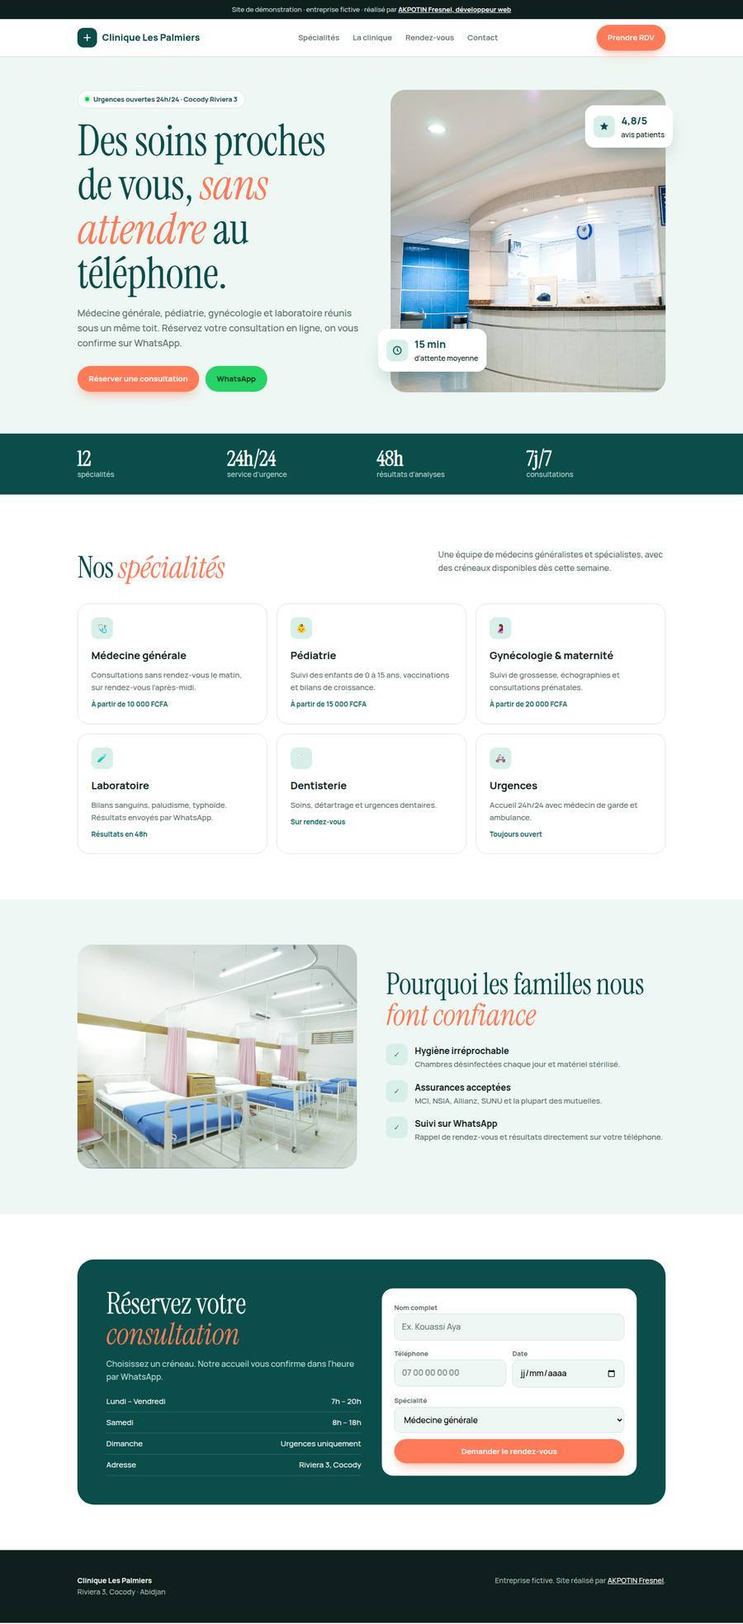
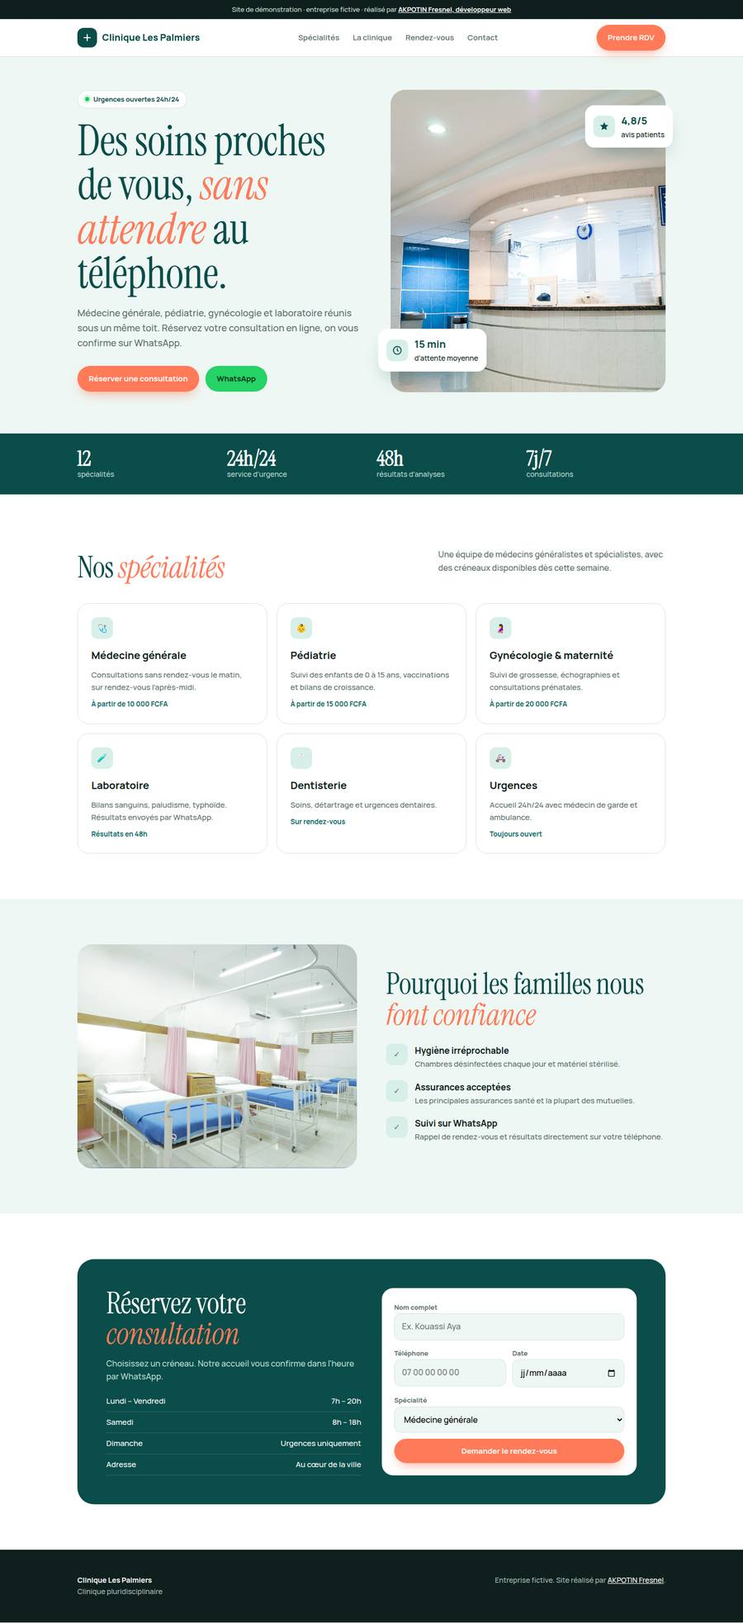
Couleur principale bleu électrique, retrait des mentions de pays et villes

diff --git a/index.html b/index.html
@@ -3,17 +3,17 @@
 <head>
 <meta charset="utf-8">
 <meta name="viewport" content="width=device-width,initial-scale=1,viewport-fit=cover">
-<title>AKPOTIN Fresnel · Développeur web à Abidjan &amp; Cotonou</title>
-<meta name="description" content="AKPOTIN Fresnel, développeur web : sites rapides sur mobile pour salons, cliniques, écoles, hôtels et agences d'Abidjan et de Cotonou.">
+<title>AKPOTIN Fresnel · Développeur web</title>
+<meta name="description" content="AKPOTIN Fresnel, développeur web : sites rapides sur mobile pour salons, cliniques, écoles, hôtels et agences.">
 <meta property="og:title" content="AKPOTIN Fresnel · Développeur web">
-<meta property="og:description" content="Des sites qui font venir les clients. Abidjan & Cotonou.">
+<meta property="og:description" content="Des sites qui font venir les clients.">
 <meta property="og:image" content="img/dreads.jpg">
 <link rel="preconnect" href="https://fonts.googleapis.com">
 <link rel="stylesheet" href="https://fonts.googleapis.com/css2?family=Bricolage+Grotesque:opsz,wght@12..96,500;12..96,700;12..96,800&family=DM+Sans:opsz,wght@9..40,500;9..40,700&display=swap">
 <style>
-/* Néo-brutalisme : jaune #ffe17c, charbon #171e19, sauge #b7c6c2, bordures 2px, ombres dures sans flou */
+/* Néo-brutalisme : bleu électrique #7b9cff, charbon #171e19, sauge #b7c6c2, bordures 2px, ombres dures sans flou */
 :root{
-  --yellow:#ffe17c; --charcoal:#171e19; --sage:#b7c6c2; --black:#000; --white:#fff; --dark2:#272727; --soft:#f4f4f5; --muted:#3f4742;
+  --main:#7b9cff; --charcoal:#171e19; --sage:#b7c6c2; --black:#000; --white:#fff; --dark2:#272727; --soft:#f4f4f5; --muted:#3f4742;
   --f-display:"Bricolage Grotesque","Arial Black",system-ui,sans-serif;
   --f-body:"DM Sans",system-ui,-apple-system,sans-serif;
   --ease:cubic-bezier(.175,.885,.32,1.275);
@@ -26,7 +26,7 @@ p{margin:0} a{color:inherit} img{max-width:100%;display:block}
 .in{max-width:1240px;margin:0 auto;padding-inline:16px}
 @media (min-width:700px){.in{padding-inline:32px}}
 section{padding-block:clamp(64px,9vw,120px)}
-.dots{background-color:var(--yellow);background-image:radial-gradient(circle,rgb(0 0 0 / .1) 1.6px,transparent 1.8px);background-size:32px 32px}
+.dots{background-color:var(--main);background-image:radial-gradient(circle,rgb(0 0 0 / .1) 1.6px,transparent 1.8px);background-size:32px 32px}
 .h2{font-size:clamp(40px,6.4vw,84px)}
 .lead{font-size:clamp(17px,1.6vw,20px);max-width:58ch}
 .pill{display:inline-flex;align-items:center;gap:8px;background:var(--white);border:2px solid var(--black);border-radius:999px;padding:6px 14px;font:700 13px var(--f-body);text-transform:uppercase;letter-spacing:.07em;box-shadow:4px 4px 0 var(--black)}
@@ -38,15 +38,15 @@ section{padding-block:clamp(64px,9vw,120px)}
 .btn{display:inline-flex;align-items:center;gap:10px;font:700 16px var(--f-body);text-decoration:none;padding:15px 28px;border:2px solid var(--black);border-radius:12px;cursor:pointer;transition:transform .2s var(--ease),box-shadow .2s var(--ease)}
 .btn-dark{background:var(--black);color:var(--white);box-shadow:8px 8px 0 var(--black)}
 .btn-dark:hover{transform:translate(4px,4px);box-shadow:4px 4px 0 var(--black)}
-.on-dark .btn-dark{border-color:var(--yellow);box-shadow:8px 8px 0 var(--yellow)}
-.on-dark .btn-dark:hover{box-shadow:4px 4px 0 var(--yellow)}
+.on-dark .btn-dark{border-color:var(--main);box-shadow:8px 8px 0 var(--main)}
+.on-dark .btn-dark:hover{box-shadow:4px 4px 0 var(--main)}
 .btn-light{background:var(--white);color:var(--black);box-shadow:4px 4px 0 var(--black)}
 .btn-light:hover{transform:translate(4px,4px);box-shadow:0 0 0 var(--black)}
 .btn-sm{padding:10px 18px;font-size:15px;box-shadow:4px 4px 0 var(--black)}
 .btn-sm:hover{transform:translate(4px,4px);box-shadow:0 0 0 var(--black)}
 
 /* nav */
-header.nav{position:fixed;top:0;left:0;right:0;z-index:50;background:var(--yellow);border-bottom:2px solid var(--black);padding-top:env(safe-area-inset-top,0px)}
+header.nav{position:fixed;top:0;left:0;right:0;z-index:50;background:var(--main);border-bottom:2px solid var(--black);padding-top:env(safe-area-inset-top,0px)}
 .nav .in{height:80px;display:flex;align-items:center;justify-content:space-between;gap:16px}
 .logo{display:flex;align-items:center;gap:10px;text-decoration:none;font:800 20px var(--f-display);letter-spacing:-.03em;white-space:nowrap}
 .logo i{width:40px;height:40px;background:var(--black);border-radius:8px;display:grid;place-items:center;flex:none;transition:transform .4s var(--ease)}
@@ -71,6 +71,7 @@ header.nav{position:fixed;top:0;left:0;right:0;z-index:50;background:var(--yello
 .swap{display:inline-grid;vertical-align:bottom}
 .swap b{grid-area:1/1;color:transparent;-webkit-text-stroke:2.5px var(--black);font-weight:800;transition:transform .55s var(--ease),opacity .4s}
 .swap b:not(.cur){transform:translateY(80%) rotate(6deg);opacity:0}
+.swap b:not(.cur):not(.out){visibility:hidden}
 .swap b.out{transform:translateY(-80%) rotate(-6deg);opacity:0}
 .hero .lead{margin-top:26px}
 .ctas{display:flex;flex-wrap:wrap;gap:18px;margin-top:36px}
@@ -94,7 +95,7 @@ header.nav{position:fixed;top:0;left:0;right:0;z-index:50;background:var(--yello
 @keyframes deal{from{opacity:0;translate:0 60px}}
 .sticker{position:absolute;left:-6%;top:-8%;width:132px;height:132px;z-index:5;display:grid;place-items:center}
 .sticker svg{position:absolute;inset:0;animation:spin 14s linear infinite}
-.sticker i{position:relative;z-index:1;width:62px;height:62px;border-radius:50%;background:var(--black);display:grid;place-items:center;font:800 24px var(--f-display);color:var(--yellow);font-style:normal;border:2px solid var(--black)}
+.sticker i{position:relative;z-index:1;width:62px;height:62px;border-radius:50%;background:var(--black);display:grid;place-items:center;font:800 24px var(--f-display);color:var(--main);font-style:normal;border:2px solid var(--black)}
 @keyframes spin{to{transform:rotate(360deg)}}
 @media (max-width:600px){.sticker{width:96px;height:96px;left:-2%;top:-10%}.sticker i{width:46px;height:46px;font-size:18px}}
 
@@ -102,7 +103,7 @@ header.nav{position:fixed;top:0;left:0;right:0;z-index:50;background:var(--yello
 .marquee{background:var(--charcoal);border-bottom:2px solid var(--black);overflow:hidden;padding-block:24px}
 .track{display:flex;width:max-content;animation:slide 40s linear infinite}
 .track span{font:800 clamp(24px,3.2vw,38px) var(--f-display);letter-spacing:-.02em;color:var(--sage);opacity:.5;padding-inline:26px;white-space:nowrap}
-.track span::after{content:"✦";margin-left:52px;font-size:.6em;vertical-align:middle;color:var(--yellow)}
+.track span::after{content:"✦";margin-left:52px;font-size:.6em;vertical-align:middle;color:var(--main)}
 @keyframes slide{to{transform:translateX(-50%)}}
 
 /* chiffres */
@@ -132,11 +133,11 @@ header.nav{position:fixed;top:0;left:0;right:0;z-index:50;background:var(--yello
 .mob{position:absolute;right:0;bottom:0;width:24%;min-width:92px;border:2px solid var(--black);border-radius:20px;background:var(--black);padding:5px;box-shadow:6px 6px 0 var(--black);transform:rotate(4deg);transition:transform .4s var(--ease)}
 .proj:hover .mob{transform:rotate(0) translateY(-8px)}
 .mob img{border-radius:15px;aspect-ratio:390/844;object-fit:cover;object-position:top;width:100%}
-.hint{position:absolute;left:14px;bottom:calc(8% + 14px);background:var(--yellow);border:2px solid var(--black);border-radius:8px;padding:4px 10px;font:700 12px var(--f-body);box-shadow:3px 3px 0 var(--black);transition:opacity .3s}
+.hint{position:absolute;left:14px;bottom:calc(8% + 14px);background:var(--main);border:2px solid var(--black);border-radius:8px;padding:4px 10px;font:700 12px var(--f-body);box-shadow:3px 3px 0 var(--black);transition:opacity .3s}
 .proj:hover .hint{opacity:0}
 .info{display:grid;gap:16px;align-content:start}
 .kind{justify-self:start;font:700 13px var(--f-body);text-transform:uppercase;letter-spacing:.07em;border:2px solid var(--black);border-radius:999px;padding:4px 12px}
-.k-client{background:var(--yellow)} .k-prod{background:var(--sage)} .k-demo{background:var(--white)}
+.k-client{background:var(--main)} .k-prod{background:var(--sage)} .k-demo{background:var(--white)}
 .info h3{font-size:clamp(34px,4vw,52px)}
 .info p{font-size:17px;color:var(--muted);max-width:46ch}
 .feats{display:flex;flex-wrap:wrap;gap:8px}
@@ -151,7 +152,7 @@ header.nav{position:fixed;top:0;left:0;right:0;z-index:50;background:var(--yello
 .pcard{border-radius:24px;padding:clamp(24px,3vw,40px);display:grid;gap:22px;align-content:start}
 .pcard h3{font-size:clamp(28px,3vw,38px)}
 .pcard.bad{background:var(--soft);border:2px dashed #8a918d;opacity:.75}
-.pcard.good{background:var(--yellow);border:2px solid var(--black);box-shadow:8px 8px 0 var(--black)}
+.pcard.good{background:var(--main);border:2px solid var(--black);box-shadow:8px 8px 0 var(--black)}
 .ticks{list-style:none;margin:0;padding:0;display:grid;gap:14px;font-weight:700;font-size:17px}
 .ticks li{display:grid;grid-template-columns:28px minmax(0,1fr);gap:12px}
 
@@ -164,7 +165,7 @@ header.nav{position:fixed;top:0;left:0;right:0;z-index:50;background:var(--yello
 .step{position:relative;display:grid;gap:14px;justify-items:start}
 .circle{width:96px;height:96px;border-radius:50%;background:var(--charcoal);display:grid;place-items:center;font:800 36px var(--f-display)}
 .c1{border:4px solid var(--sage);color:var(--sage);box-shadow:0 0 0 6px rgb(183 198 194 / .15)}
-.c2{border:4px solid var(--yellow);color:var(--yellow);box-shadow:0 0 0 6px rgb(255 225 124 / .15)}
+.c2{border:4px solid var(--main);color:var(--main);box-shadow:0 0 0 6px rgb(123 156 255 / .2)}
 .c3{border:4px solid var(--white);color:var(--white);box-shadow:0 0 0 6px rgb(255 255 255 / .12)}
 .step h3{font-size:28px}
 .step p{color:#c5cfcb;max-width:34ch}
@@ -177,7 +178,7 @@ header.nav{position:fixed;top:0;left:0;right:0;z-index:50;background:var(--yello
 .bcard .tagw{justify-self:start;background:var(--white);color:var(--black);border:2px solid var(--black);border-radius:999px;font:700 13px var(--f-body);padding:4px 12px}
 .bcard h3{font-size:30px}
 .bcard ul{margin:0;padding-left:18px;display:grid;gap:6px}
-.b1{background:var(--sage)} .b2{background:var(--yellow);box-shadow:8px 8px 0 var(--black)} .b3{background:var(--dark2);color:var(--white)}
+.b1{background:var(--sage)} .b2{background:var(--main);box-shadow:8px 8px 0 var(--black)} .b3{background:var(--dark2);color:var(--white)}
 
 /* inclus */
 .promise{background:var(--sage);border-block:2px solid var(--black)}
@@ -198,7 +199,7 @@ header.nav{position:fixed;top:0;left:0;right:0;z-index:50;background:var(--yello
 .cbox div{min-width:0}
 .cbox small{display:block;font:700 12px var(--f-body);text-transform:uppercase;letter-spacing:.07em;color:#4a524d}
 .cbox strong{display:block;font-size:17px;overflow-wrap:anywhere}
-.copy{font:700 13px var(--f-body);background:var(--yellow);border:2px solid var(--black);border-radius:8px;padding:6px 12px;cursor:pointer;flex:none}
+.copy{font:700 13px var(--f-body);background:var(--main);border:2px solid var(--black);border-radius:8px;padding:6px 12px;cursor:pointer;flex:none}
 .copy:hover{background:var(--sage)}
 
 footer{background:var(--charcoal);color:#c5cfcb;padding-block:56px 32px}
@@ -207,10 +208,10 @@ footer{background:var(--charcoal);color:#c5cfcb;padding-block:56px 32px}
 @media (max-width:480px){.fgrid{grid-template-columns:minmax(0,1fr)}}
 footer h4{font:800 16px var(--f-display);color:var(--white);margin:0 0 12px}
 footer ul{list-style:none;margin:0;padding:0;display:grid;gap:8px;font-size:15px}
-footer a{text-decoration:none} footer a:hover{color:var(--yellow)}
+footer a{text-decoration:none} footer a:hover{color:var(--main)}
 .social{display:flex;gap:10px;margin-top:16px}
 .social a{width:40px;height:40px;display:grid;place-items:center;background:var(--dark2);border:2px solid #5d6560;border-radius:8px;color:#d9dfdc;transition:background .2s,color .2s,border-color .2s}
-.social a:hover{background:var(--yellow);color:var(--black);border-color:var(--black)}
+.social a:hover{background:var(--main);color:var(--black);border-color:var(--black)}
 .legal{margin-top:44px;padding-top:20px;border-top:2px solid var(--dark2);display:flex;flex-wrap:wrap;justify-content:space-between;gap:10px;font-size:14px}
 
 .wa-fab{position:fixed;right:18px;bottom:calc(18px + env(safe-area-inset-bottom,0px));z-index:40;width:60px;height:60px;border-radius:16px;background:#25d366;border:2px solid var(--black);box-shadow:4px 4px 0 var(--black);display:grid;place-items:center;transition:transform .2s var(--ease),box-shadow .2s var(--ease)}
@@ -228,7 +229,7 @@ footer a{text-decoration:none} footer a:hover{color:var(--yellow)}
 <header class="nav">
   <div class="in">
     <a class="logo" href="#top" aria-label="AKPOTIN Fresnel, accueil">
-      <i><svg width="20" height="20" viewBox="0 0 24 24" fill="#ffe17c" aria-hidden="true"><path d="M13.5 2 4 13.5h6.5L9 22l11-12.5h-6.8z"/></svg></i>
+      <i><svg width="20" height="20" viewBox="0 0 24 24" fill="#7b9cff" aria-hidden="true"><path d="M13.5 2 4 13.5h6.5L9 22l11-12.5h-6.8z"/></svg></i>
       <span>AKPOTIN Fresnel</span>
     </a>
     <nav class="links" aria-label="Sections">
@@ -246,7 +247,7 @@ footer a{text-decoration:none} footer a:hover{color:var(--yellow)}
   <section class="hero dots">
     <div class="in">
       <div>
-        <span class="pill"><span class="live"></span>Disponible · Abidjan &amp; Cotonou</span>
+        <span class="pill"><span class="live"></span>Disponible pour vos projets</span>
         <h1>
           <span class="ln"><span>Des sites qui</span></span>
           <span class="ln"><span>font <span class="swap" id="swap"><b class="cur">appeler</b><b>réserver</b><b>acheter</b><b>revenir</b></span></span></span>
@@ -262,7 +263,7 @@ footer a{text-decoration:none} footer a:hover{color:var(--yellow)}
 
       <div class="fan" id="fan" aria-label="Aperçu de sites réalisés">
         <div class="sticker" aria-hidden="true">
-          <svg viewBox="0 0 132 132"><defs><path id="circ" d="M66,66 m-52,0 a52,52 0 1,1 104,0 a52,52 0 1,1 -104,0"/></defs><circle cx="66" cy="66" r="64" fill="#fff" stroke="#000" stroke-width="2"/><text font-family="DM Sans, sans-serif" font-weight="700" font-size="12.5" letter-spacing="2.6"><textPath href="#circ">SITES WEB · ABIDJAN · COTONOU · </textPath></text></svg>
+          <svg viewBox="0 0 132 132"><defs><path id="circ" d="M66,66 m-52,0 a52,52 0 1,1 104,0 a52,52 0 1,1 -104,0"/></defs><circle cx="66" cy="66" r="64" fill="#fff" stroke="#000" stroke-width="2"/><text font-family="DM Sans, sans-serif" font-weight="700" font-size="12.5" letter-spacing="2.6"><textPath href="#circ">SITES WEB · SUR MESURE · RAPIDES · </textPath></text></svg>
           <i>AF</i>
         </div>
         <div class="card c1"><div class="bar"><b style="background:#ff5f57"></b><b style="background:#febc2e"></b><b style="background:#28c840"></b></div><img src="img/hotel.jpg" alt="Site de l'hôtel Lagune Bleue"></div>
@@ -284,7 +285,7 @@ footer a{text-decoration:none} footer a:hover{color:var(--yellow)}
     <div><strong data-count="4">4</strong><span>sites en ligne</span></div>
     <div><strong>100%</strong><span>adaptés au mobile</span></div>
     <div><strong>1 clic</strong><span>pour vous écrire</span></div>
-    <div><strong>2</strong><span>pays : CI &amp; Bénin</span></div>
+    <div><strong>24h</strong><span>pour une première réponse</span></div>
   </div>
 
   <section class="work" id="realisations">
@@ -303,7 +304,7 @@ footer a{text-decoration:none} footer a:hover{color:var(--yellow)}
           </a>
           <div class="info">
             <span class="num">01</span>
-            <span class="kind k-client">Client · Cotonou</span>
+            <span class="kind k-client">Client · Salon de coiffure</span>
             <h3>Dreads ET Crépus</h3>
             <p>Site complet d'un salon de coiffure spécialisé dreadlocks et cheveux crépus : présentation de l'équipe, prestations et tarifs, galerie, avis clientes et prise de rendez-vous en ligne.</p>
             <div class="feats"><span>Prise de RDV</span><span>Tarifs</span><span>Galerie</span><span>Avis clients</span><span>Mode sombre</span></div>
@@ -418,7 +419,7 @@ footer a{text-decoration:none} footer a:hover{color:var(--yellow)}
       <div class="pgrid">
         <div class="pr rv"><div class="big">Mobile</div><h3>Rapide sur téléphone</h3><p>Conçu d'abord pour l'écran du téléphone, léger même avec une connexion 3G.</p></div>
         <div class="pr rv"><div class="big">1 clic</div><h3>Contact WhatsApp direct</h3><p>Le visiteur vous écrit sans chercher votre numéro. Chaque demande arrive sur votre téléphone.</p></div>
-        <div class="pr rv"><div class="big">Google</div><h3>Visible localement</h3><p>Fiche Google et référencement de base pour apparaître sur « clinique Cocody » ou « salon Cotonou ».</p></div>
+        <div class="pr rv"><div class="big">Google</div><h3>Visible localement</h3><p>Fiche Google et référencement de base pour apparaître sur « clinique + votre quartier » ou « salon + votre ville ».</p></div>
       </div>
     </div>
   </section>
@@ -430,7 +431,7 @@ footer a{text-decoration:none} footer a:hover{color:var(--yellow)}
       <p class="lead">Écrivez-moi sur WhatsApp avec le nom de votre entreprise. Je vous réponds avec une proposition adaptée.</p>
       <a class="btn btn-dark" href="https://wa.me/2290153829990?text=Bonjour%20Fresnel%2C%20je%20souhaite%20un%20site%20web%20pour%20mon%20entreprise." target="_blank" rel="noopener">Démarrer sur WhatsApp →</a>
       <div class="contact">
-        <div class="cbox"><div><small>WhatsApp / Téléphone</small><strong>+229 01 53 82 99 90</strong></div><button class="copy" data-copy="+229 01 53 82 99 90">Copier</button></div>
+        <div class="cbox"><div><small>WhatsApp / Téléphone</small><strong>01 53 82 99 90</strong></div><button class="copy" data-copy="+229 01 53 82 99 90">Copier</button></div>
         <div class="cbox"><div><small>Email</small><strong>fresnel849@gmail.com</strong></div><button class="copy" data-copy="fresnel849@gmail.com">Copier</button></div>
       </div>
     </div>
@@ -441,8 +442,8 @@ footer a{text-decoration:none} footer a:hover{color:var(--yellow)}
   <div class="in">
     <div class="fgrid">
       <div>
-        <a class="logo" href="#top" style="color:#fff"><i style="background:#ffe17c"><svg width="20" height="20" viewBox="0 0 24 24" fill="#000" aria-hidden="true"><path d="M13.5 2 4 13.5h6.5L9 22l11-12.5h-6.8z"/></svg></i><span>AKPOTIN Fresnel</span></a>
-        <p style="margin-top:14px;max-width:32ch">Développeur web. Sites pour les entreprises d'Abidjan et de Cotonou.</p>
+        <a class="logo" href="#top" style="color:#fff"><i style="background:#7b9cff"><svg width="20" height="20" viewBox="0 0 24 24" fill="#000" aria-hidden="true"><path d="M13.5 2 4 13.5h6.5L9 22l11-12.5h-6.8z"/></svg></i><span>AKPOTIN Fresnel</span></a>
+        <p style="margin-top:14px;max-width:32ch">Développeur web. Des sites rapides et efficaces pour les entreprises.</p>
         <div class="social">
           <a href="https://wa.me/2290153829990" target="_blank" rel="noopener" aria-label="WhatsApp"><svg width="18" height="18" viewBox="0 0 24 24" fill="currentColor"><path d="M12 2a10 10 0 0 0-8.6 15.1L2 22l5-1.3A10 10 0 1 0 12 2Zm0 18.2c-1.5 0-3-.4-4.3-1.2l-.3-.2-3 .8.8-2.9-.2-.3A8.2 8.2 0 1 1 12 20.2Z"/></svg></a>
           <a href="mailto:fresnel849@gmail.com" aria-label="Email"><svg width="18" height="18" viewBox="0 0 24 24" fill="none" stroke="currentColor" stroke-width="2"><rect x="3" y="5" width="18" height="14" rx="2"/><path d="m3 7 9 6 9-6"/></svg></a>
@@ -451,7 +452,7 @@ footer a{text-decoration:none} footer a:hover{color:var(--yellow)}
       </div>
       <div><h4>Réalisations</h4><ul><li><a href="https://dreadsetcrepus.com/" target="_blank" rel="noopener">Dreads ET Crépus</a></li><li><a href="https://fresnel849-debug.github.io/prompt-vault/" target="_blank" rel="noopener">Prompt Vault</a></li><li><a href="demos/clinique/">Démo clinique</a></li><li><a href="demos/hotel/">Démo hôtel</a></li></ul></div>
       <div><h4>Services</h4><ul><li>Site vitrine</li><li>Refonte de site</li><li>Fiche Google</li><li>Maintenance</li></ul></div>
-      <div><h4>Contact</h4><ul><li>+229 01 53 82 99 90</li><li style="overflow-wrap:anywhere">fresnel849@gmail.com</li><li>Abidjan · Cotonou</li></ul></div>
+      <div><h4>Contact</h4><ul><li>01 53 82 99 90</li><li style="overflow-wrap:anywhere">fresnel849@gmail.com</li><li>Projets à distance</li></ul></div>
     </div>
     <div class="legal"><span>© 2026 AKPOTIN Fresnel</span><span>Les projets marqués « Démo » sont des entreprises fictives.</span></div>
   </div>

diff --git a/demos/hotel/index.html b/demos/hotel/index.html
@@ -3,8 +3,8 @@
 <head>
 <meta charset="utf-8">
 <meta name="viewport" content="width=device-width,initial-scale=1">
-<title>Hôtel Lagune Bleue · Grand-Bassam (démo)</title>
-<meta name="description" content="Site de démonstration réalisé par AKPOTIN Fresnel : hôtel fictif en bord de lagune à Grand-Bassam.">
+<title>Hôtel Lagune Bleue (démo)</title>
+<meta name="description" content="Site de démonstration réalisé par AKPOTIN Fresnel : hôtel fictif en bord de lagune.">
 <meta name="robots" content="noindex">
 <link rel="preconnect" href="https://fonts.googleapis.com">
 <link rel="stylesheet" href="https://fonts.googleapis.com/css2?family=Cormorant+Garamond:ital,wght@0,500;0,600;1,500&family=Jost:wght@400;500;600&display=swap">
@@ -97,13 +97,13 @@ footer b{color:#fff;font-family:var(--serif);font-size:22px;font-weight:500}
   <img src="img/piscine.jpg" alt="Piscine et transats au bord de la lagune">
   <div class="in">
     <div class="top">
-      <div class="logo">Lagune Bleue<small>Hôtel · Grand-Bassam</small></div>
+      <div class="logo">Lagune Bleue<small>Hôtel · Bord de lagune</small></div>
       <nav><a href="#hotel">L'hôtel</a><a href="#chambres">Chambres</a><a href="#services">Services</a><a href="#contact">Contact</a></nav>
       <a class="btn line" href="#chambres">Réserver</a>
     </div>
     <div>
-      <h1>Le calme de la <em>lagune</em>, à 40 minutes d'Abidjan.</h1>
-      <p>Vingt-deux chambres face à l'eau, une piscine à débordement et la plage de Grand-Bassam à pied.</p>
+      <h1>Le calme de la <em>lagune</em>, à deux pas de la mer.</h1>
+      <p>Vingt-deux chambres face à l'eau, une piscine à débordement et la plage à quelques minutes à pied.</p>
       <a class="btn gold" href="#chambres">Voir les chambres</a>
     </div>
   </div>
@@ -124,7 +124,7 @@ footer b{color:#fff;font-family:var(--serif);font-size:22px;font-weight:500}
   <div class="rv">
     <span class="eyebrow">L'hôtel</span>
     <h2>Une adresse <em>tranquille</em> dans la ville historique</h2>
-    <p>Entre les façades coloniales du quartier France et la lagune Ouladine, Lagune Bleue accueille couples, familles et voyageurs d'affaires qui veulent souffler le temps d'un week-end.</p>
+    <p>Entre les façades coloniales de la vieille ville et la lagune, Lagune Bleue accueille couples, familles et voyageurs d'affaires qui veulent souffler le temps d'un week-end.</p>
     <p>Petit-déjeuner local, cuisine de poisson frais et transfert depuis l'aéroport sur demande.</p>
   </div>
   <div class="stack rv"><img class="a" src="img/jardin.jpg" alt="Jardin tropical et bungalows"><img class="b" src="img/nuit.jpg" alt="Piscine éclairée le soir"></div>
@@ -145,8 +145,8 @@ footer b{color:#fff;font-family:var(--serif);font-size:22px;font-weight:500}
   <h2>Tout est prévu</h2>
   <div class="feat">
     <div class="rv"><h3>Piscine</h3><p>Ouverte de 7h à 21h, transats et service au bord de l'eau.</p></div>
-    <div class="rv"><h3>Restaurant</h3><p>Attiéké poisson, kedjenou et cuisine internationale.</p></div>
-    <div class="rv"><h3>Navette</h3><p>Aéroport Félix-Houphouët-Boigny ↔ hôtel sur réservation.</p></div>
+    <div class="rv"><h3>Restaurant</h3><p>Poisson frais, cuisine locale et internationale.</p></div>
+    <div class="rv"><h3>Navette</h3><p>Aéroport ↔ hôtel sur réservation.</p></div>
     <div class="rv"><h3>Wi-Fi fibre</h3><p>Dans toutes les chambres et au bord de la piscine.</p></div>
   </div>
 </div></section>
@@ -166,7 +166,7 @@ footer b{color:#fff;font-family:var(--serif);font-size:22px;font-weight:500}
   </div>
 </section>
 
-<footer><div class="in"><div><b>Lagune Bleue</b><br>Quartier France · Grand-Bassam</div><div>Entreprise fictive. Site réalisé par <a href="../../" style="color:#fff">AKPOTIN Fresnel</a>.</div></div></footer>
+<footer><div class="in"><div><b>Lagune Bleue</b><br>Hôtel en bord de lagune</div><div>Entreprise fictive. Site réalisé par <a href="../../" style="color:#fff">AKPOTIN Fresnel</a>.</div></div></footer>
 <script>
 document.getElementById('f').addEventListener('submit',e=>{e.preventDefault();document.getElementById('msg').style.display='block'});
 const io=new IntersectionObserver(es=>es.forEach(x=>{if(x.isIntersecting){x.target.classList.add('on');io.unobserve(x.target)}}),{threshold:.1});

diff --git a/demos/clinique/index.html b/demos/clinique/index.html
@@ -3,8 +3,8 @@
 <head>
 <meta charset="utf-8">
 <meta name="viewport" content="width=device-width,initial-scale=1">
-<title>Clinique Les Palmiers · Cocody, Abidjan (démo)</title>
-<meta name="description" content="Site de démonstration réalisé par AKPOTIN Fresnel : clinique pluridisciplinaire fictive à Cocody, Abidjan.">
+<title>Clinique Les Palmiers (démo)</title>
+<meta name="description" content="Site de démonstration réalisé par AKPOTIN Fresnel : clinique pluridisciplinaire fictive.">
 <meta name="robots" content="noindex">
 <link rel="preconnect" href="https://fonts.googleapis.com">
 <link rel="stylesheet" href="https://fonts.googleapis.com/css2?family=Instrument+Serif:ital@0;1&family=Manrope:wght@400;500;600;700;800&display=swap">
@@ -105,7 +105,7 @@ footer strong{color:#fff}
 
 <section class="hero" style="padding:0"><div class="in">
   <div>
-    <span class="kicker"><b></b>Urgences ouvertes 24h/24 · Cocody Riviera 3</span>
+    <span class="kicker"><b></b>Urgences ouvertes 24h/24</span>
     <h1>Des soins proches de vous, <em>sans attendre</em> au téléphone.</h1>
     <p class="lead">Médecine générale, pédiatrie, gynécologie et laboratoire réunis sous un même toit. Réservez votre consultation en ligne, on vous confirme sur WhatsApp.</p>
     <div class="ctas">
@@ -145,7 +145,7 @@ footer strong{color:#fff}
     <h2>Pourquoi les familles nous <em>font confiance</em></h2>
     <ul class="why">
       <li><span class="ic">✓</span><div><b>Hygiène irréprochable</b><span>Chambres désinfectées chaque jour et matériel stérilisé.</span></div></li>
-      <li><span class="ic">✓</span><div><b>Assurances acceptées</b><span>MCI, NSIA, Allianz, SUNU et la plupart des mutuelles.</span></div></li>
+      <li><span class="ic">✓</span><div><b>Assurances acceptées</b><span>Les principales assurances santé et la plupart des mutuelles.</span></div></li>
       <li><span class="ic">✓</span><div><b>Suivi sur WhatsApp</b><span>Rappel de rendez-vous et résultats directement sur votre téléphone.</span></div></li>
     </ul>
   </div>
@@ -160,7 +160,7 @@ footer strong{color:#fff}
         <div><span>Lundi – Vendredi</span><span>7h – 20h</span></div>
         <div><span>Samedi</span><span>8h – 18h</span></div>
         <div><span>Dimanche</span><span>Urgences uniquement</span></div>
-        <div><span>Adresse</span><span>Riviera 3, Cocody</span></div>
+        <div><span>Adresse</span><span>Au cœur de la ville</span></div>
       </div>
     </div>
     <form id="f">
@@ -175,7 +175,7 @@ footer strong{color:#fff}
 </div></section>
 
 <footer><div class="in">
-  <div><strong>Clinique Les Palmiers</strong><br>Riviera 3, Cocody · Abidjan</div>
+  <div><strong>Clinique Les Palmiers</strong><br>Clinique pluridisciplinaire</div>
   <div>Entreprise fictive. Site réalisé par <a href="../../" style="color:#fff">AKPOTIN Fresnel</a>.</div>
 </div></footer>
 

diff --git a/README.md b/README.md
@@ -1,5 +1,5 @@
 # Portfolio — AKPOTIN Fresnel
 
-Développeur web · Abidjan & Cotonou.
+Développeur web.
 
 Site en ligne : https://fresnel849-debug.github.io/portfolio/
